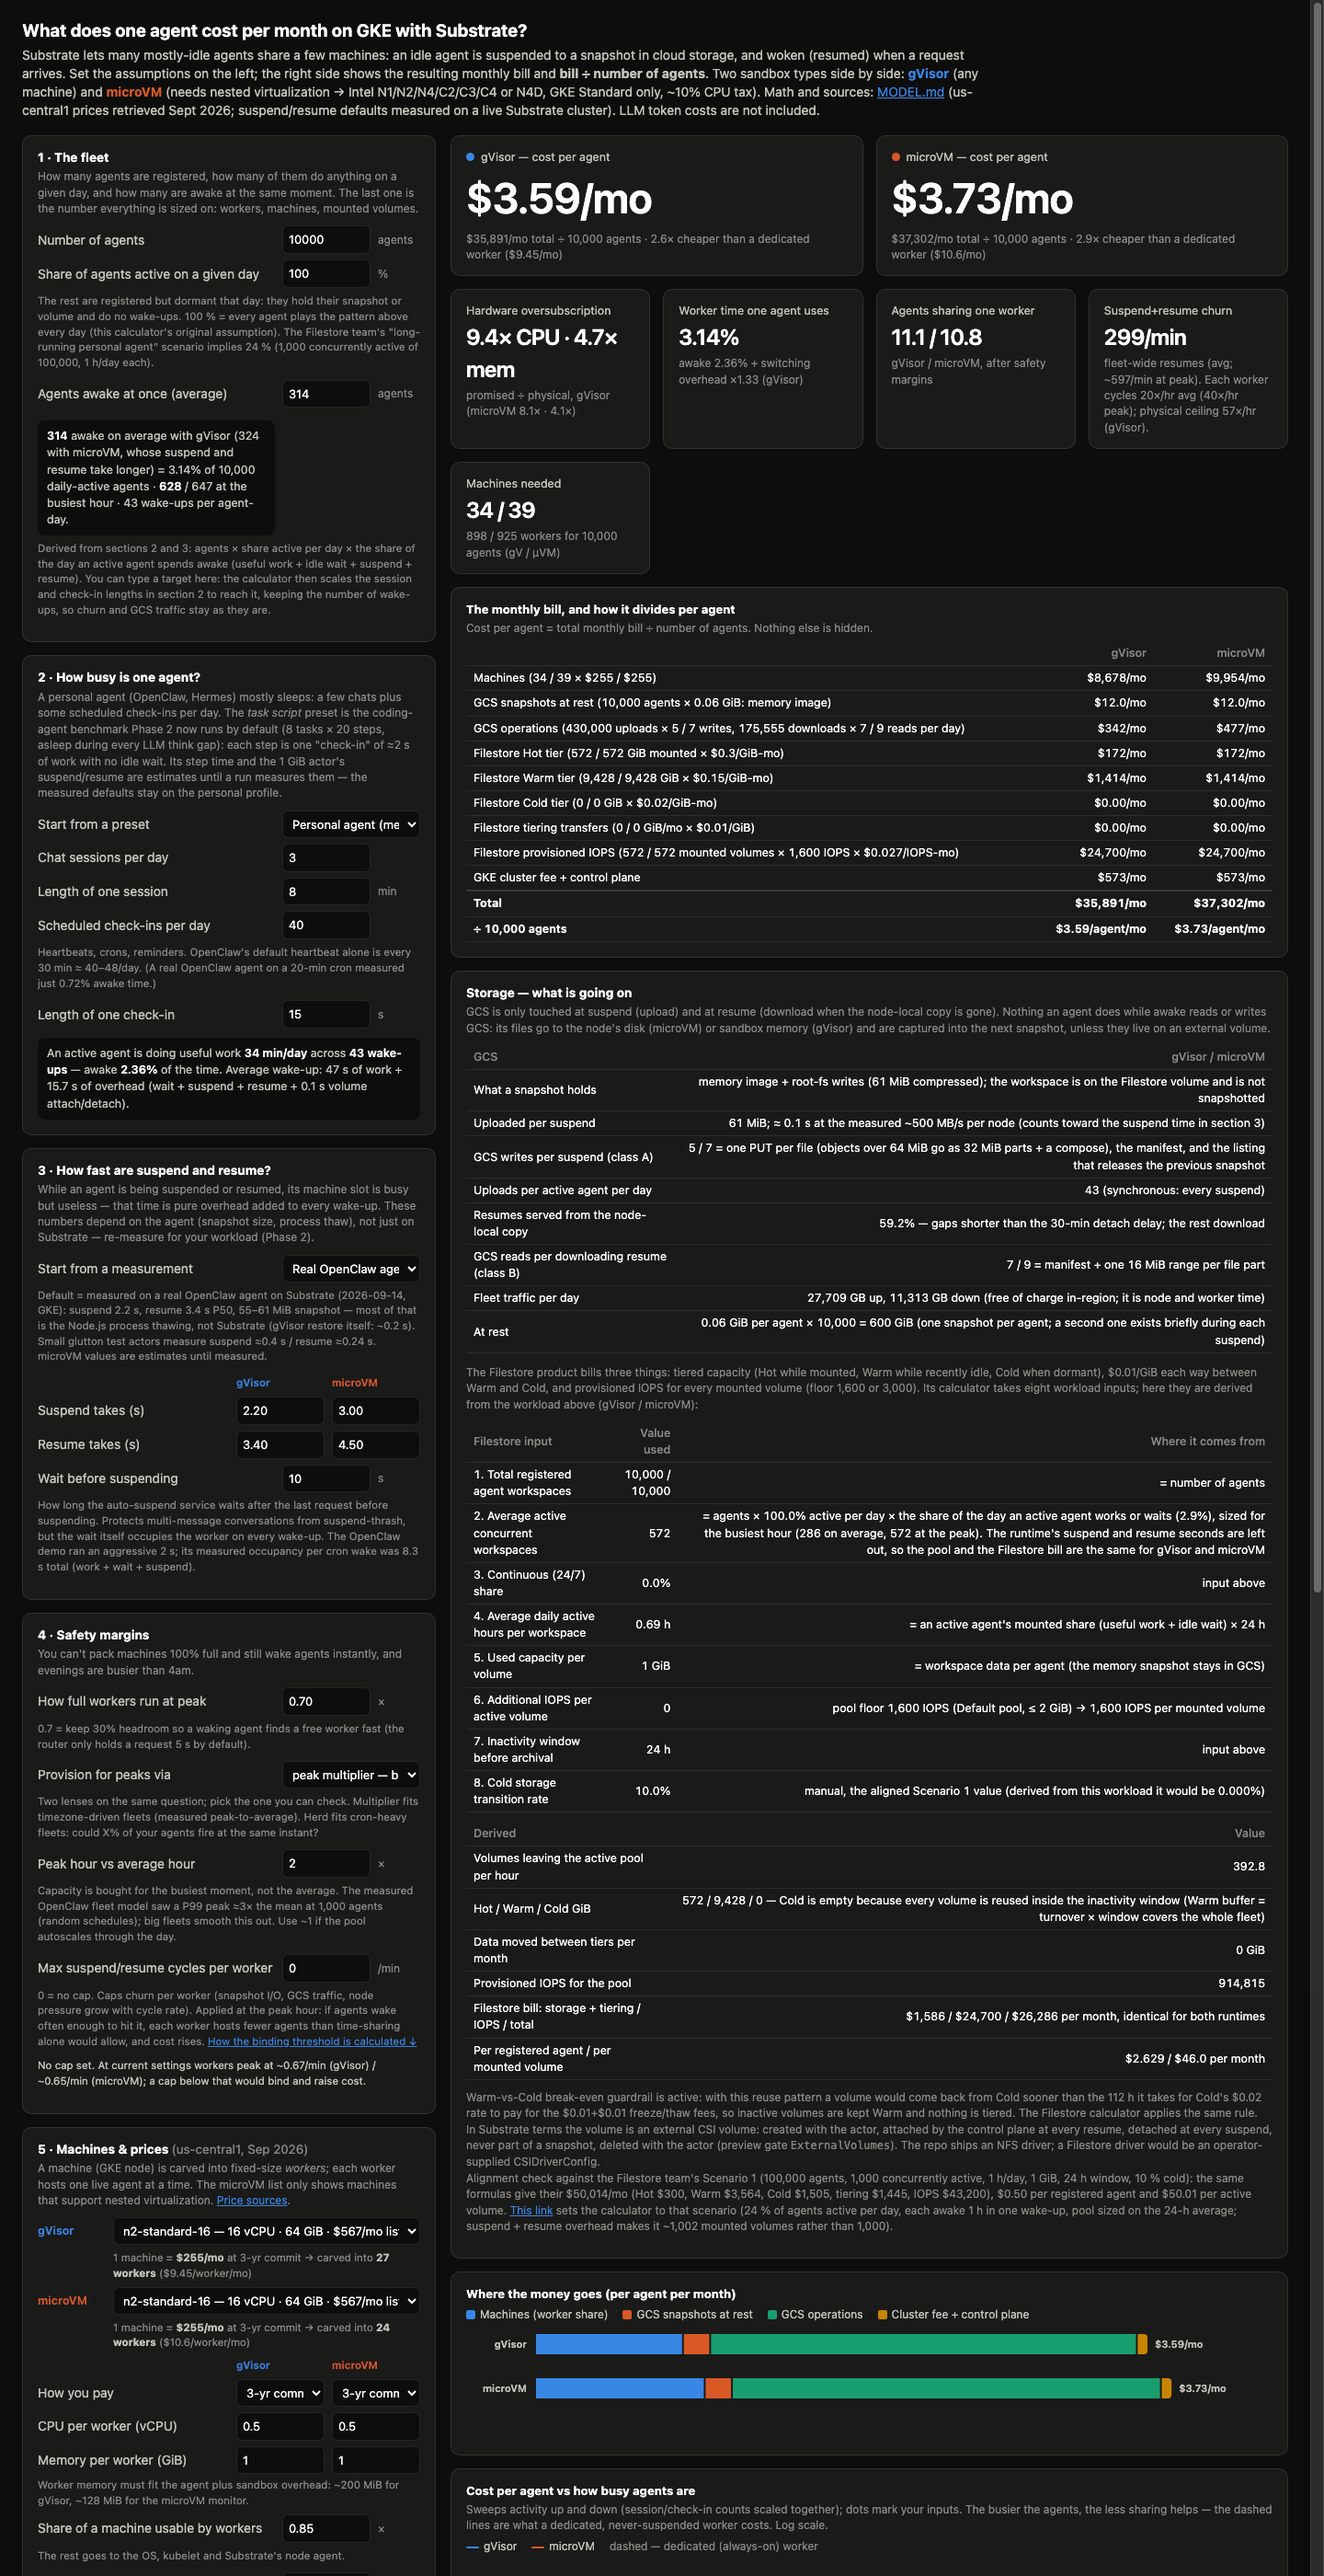
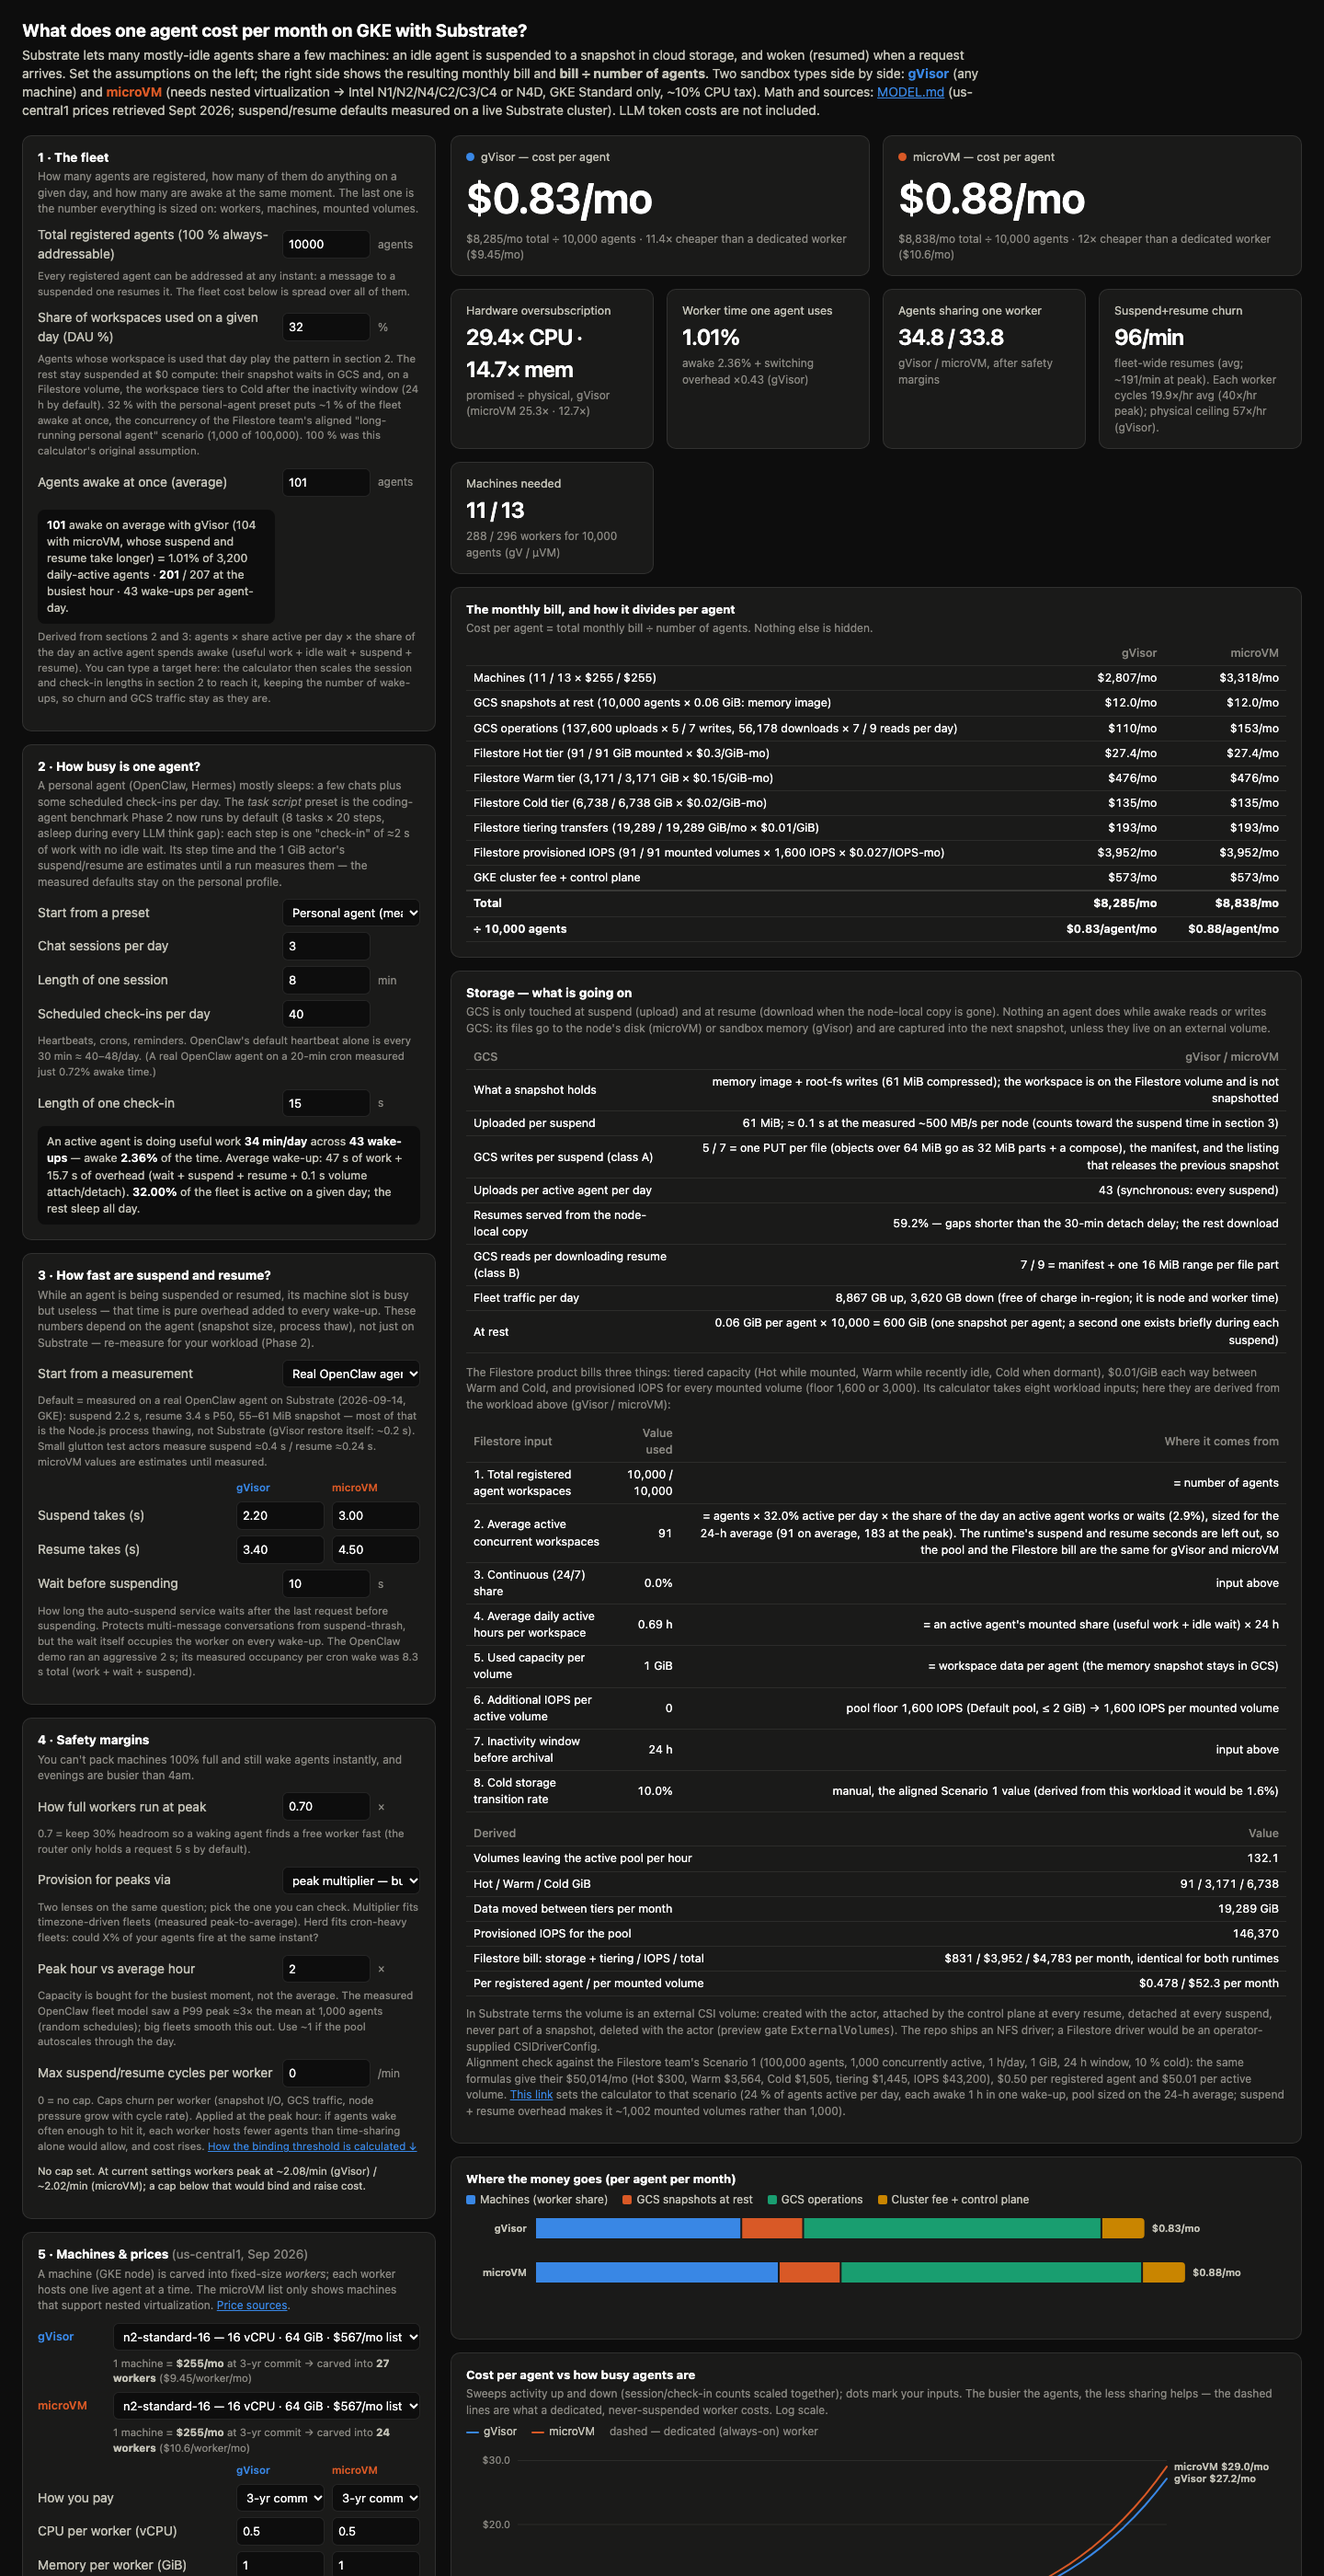
calculator: fleet card relabelled (total registered agents, 100 % always-addressable; share of workspaces used on a given day, DAU %); personal-agent preset defaults to 32 % DAU (~1 % of the fleet awake at once, the aligned scenario's concurrency); Filestore pool sized on the 24-h average by default

diff --git a/calculator.html b/calculator.html
@@ -120,10 +120,11 @@
   <div class="card">
     <h2>1 · The fleet</h2>
     <p class="why">How many agents are registered, how many of them do anything on a given day, and how many are awake at the same moment. The last one is the number everything is sized on: workers, machines, mounted volumes.</p>
-    <div class="row"><label for="fleet">Number of agents</label><input id="fleet" type="number" min="1" step="100" value="10000"><span class="unit">agents</span></div>
-    <div class="row"><label for="dailyShare">Share of agents active on a given day</label><input id="dailyShare" type="number" min="1" max="100" step="1" value="100"><span class="unit">%</span>
-      <div class="hint">The rest are registered but dormant that day: they hold their snapshot or volume and do no wake-ups. 100 % = every agent plays the pattern above every day (this calculator's original assumption). The Filestore team's "long-running personal agent" scenario implies 24 % (1,000 concurrently active of 100,000, 1 h/day each).</div></div>
-    <div class="row"><label for="concur">Agents awake at once (average)</label><input id="concur" type="number" min="1" step="10" value="314"><span class="unit">agents</span>
+    <div class="row"><label for="fleet">Total registered agents (100 % always-addressable)</label><input id="fleet" type="number" min="1" step="100" value="10000"><span class="unit">agents</span>
+      <div class="hint">Every registered agent can be addressed at any instant: a message to a suspended one resumes it. The fleet cost below is spread over all of them.</div></div>
+    <div class="row"><label for="dailyShare">Share of workspaces used on a given day (DAU %)</label><input id="dailyShare" type="number" min="1" max="100" step="1" value="32"><span class="unit">%</span>
+      <div class="hint">Agents whose workspace is used that day play the pattern in section 2. The rest stay suspended at $0 compute: their snapshot waits in GCS and, on a Filestore volume, the workspace tiers to Cold after the inactivity window (24 h by default). 32 % with the personal-agent preset puts ~1 % of the fleet awake at once, the concurrency of the Filestore team's aligned "long-running personal agent" scenario (1,000 of 100,000). 100 % was this calculator's original assumption.</div></div>
+    <div class="row"><label for="concur">Agents awake at once (average)</label><input id="concur" type="number" min="1" step="10" value="100"><span class="unit">agents</span>
       <div class="derived" id="concurDerived" style="margin-top:6px"></div>
       <div class="hint">Derived from sections 2 and 3: agents × share active per day × the share of the day an active agent spends awake (useful work + idle wait + suspend + resume). You can type a target here: the calculator then scales the session and check-in lengths in section 2 to reach it, keeping the number of wake-ups, so churn and GCS traffic stay as they are. <span id="concurNote"></span></div></div>
   </div>
@@ -242,10 +243,10 @@
     <div id="favInputs" style="display:none">
     <div class="row"><label for="favSizing">Active-volume pool sized for</label>
       <select id="favSizing" style="grid-column:2/4">
-        <option value="peak" selected>the busiest hour (same peak lens as the machines, section 4)</option>
-        <option value="avg">the 24-hour average (the Filestore calculator's convention)</option>
+        <option value="peak">the busiest hour (same peak lens as the machines, section 4)</option>
+        <option value="avg" selected>the 24-hour average (the Filestore calculator's convention)</option>
       </select>
-      <div class="hint">A volume is mounted while its agent is awake. Provisioned IOPS are billed on the number of mounted volumes the pool must hold; machines are sized for the peak above, so the pool is too by default.</div></div>
+      <div class="hint">A volume is mounted while its agent is awake. Provisioned IOPS are billed on the number of mounted volumes the pool must hold. The default follows the Filestore calculator and sizes on the 24-h average; pick the busiest hour if the pool's IOPS cannot follow the daily curve, which sizes it like the machines in section 4.</div></div>
     <div class="row"><label for="favCont">Share of active agents pinned 24/7</label><input id="favCont" type="number" min="0" max="100" step="1" value="0"><span class="unit">%</span>
       <div class="hint">Agents that never unmount. 0 % in the aligned scenario; such agents never go Warm or Cold.</div></div>
     <div class="row"><label for="favWindow">Inactivity window before archival</label><input id="favWindow" type="number" min="0" step="1" value="24"><span class="unit">hours</span>
@@ -430,7 +431,7 @@ const HRS_MO = 730;
 const $ = id => document.getElementById(id);
 const num = id => parseFloat($(id).value) || 0;
 const PRESETS = {
-  personal: {sessions:3,  sessMin:8,  wakes:40, wakeSec:15},
+  personal: {sessions:3,  sessMin:8,  wakes:40, wakeSec:15, dailyShare:32},
   chatty:   {sessions:12, sessMin:6,  wakes:48, wakeSec:15},
   coder:    {sessions:2,  sessMin:45, wakes:8,  wakeSec:30},
   // The coding-agent task script (substrate#1934) as Phase 2 runs it by

diff --git a/MODEL.md b/MODEL.md
@@ -70,10 +70,16 @@ d_eff = d * (L + T_idle + T_r + T_s) / L
 against thrashing on multi-message conversations but costs occupancy.)
 
 
-**Share of agents active on a given day (`share`, default 100 %).** Every
-quantity above is per *active* agent-day. A fleet may also hold registered
-agents that do nothing on a given day: they keep their snapshot (or volume)
-and make no wake-ups. The calculator carries this as a fleet-average factor:
+**Share of workspaces used on a given day (`share`, DAU %, default 32 %).**
+Every quantity above is per *active* agent-day. All registered agents stay
+addressable (a message to a suspended one resumes it), but only a share of
+them use their workspace on a given day; the rest keep their snapshot (or
+volume) and make no wake-ups, at no compute cost. 32 % with the personal-agent
+preset puts ~1 % of the fleet awake at once, the concurrency of the Filestore
+team's aligned "long-running personal agent" scenario (1,000 of 100,000);
+100 % was the calculator's original assumption. Below 100 % is also what lets
+a Filestore workspace ever reach the Cold tier (§5b): at 100 % every volume
+returns inside a 24 h window. The calculator carries this as a fleet-average factor:
 `occupancy_avg = share × occupancy_active`, `activations_avg = share × A`.
 Agents per worker, churn and storage operations use the averages; the
 Filestore mapping below needs both the average and the per-active values.
@@ -329,7 +335,7 @@ Alignment* document.
 | Filestore input | Derived as |
 |---|---|
 | 1. Registered workspaces | `fleet` |
-| 2. Active concurrent workspaces `A_vol` | mounted volumes = agents working or waiting: `fleet × share × (L + A·T_idle)/86400`, without the runtime's suspend and resume seconds, so the pool and the Filestore bill are identical for gVisor and microVM; sized for the busiest hour by default (`× P`, or `H + (1−H)·d` in herd mode) because provisioned IOPS cannot be scaled hourly; the 24-h average is a switch (the Filestore sheet's convention) |
+| 2. Active concurrent workspaces `A_vol` | mounted volumes = agents working or waiting: `fleet × share × (L + A·T_idle)/86400`, without the runtime's suspend and resume seconds, so the pool and the Filestore bill are identical for gVisor and microVM; sized on the 24-h average by default (the Filestore sheet's convention); the busiest hour (`× P`, or `H + (1−H)·d` in herd mode) is a switch for a pool whose provisioned IOPS cannot follow the daily curve, the same lens as the machines |
 | 3. Continuous 24/7 share `c` | input (0 % in the aligned scenario) |
 | 4. Daily active hours per workspace `h` | `(L + A·T_idle)/86400 × 24`: an active agent's useful work plus idle wait |
 | 5. Used capacity per volume `g` | `W`, the workspace GiB (uncompressed; the memory snapshot stays in GCS) |
@@ -359,21 +365,23 @@ the storage line, and the IOPS term joins the operations line. The "what is
 going on" panel under the bill prints the GCS derivation and the eight
 Filestore inputs with their provenance.
 
-**What it shows.** For the default personal-agent workload (10,000 agents,
-every one active daily with 43 wake-ups, 1 GiB workspace) the two backends
-split like this. With the workspace in the snapshot, GCS costs $0.16/agent
-(operations, mostly the composite parts of a 512 MiB tar at every suspend),
-moves ~250 TB/day, and adds ~8 s to every wake-up for the tar, compress,
-upload, download and untar of the workspace, which is why the compute line
-rises from $0.87 to $0.97/agent: $1.19 total on gVisor. With the workspace on
-Filestore, GCS drops to $0.04/agent and 28 TB/day and the wake-up overhead to
-~0.1 s, but provisioned IOPS add $2.47/agent: 572 mounted volumes at the
-busiest hour × 1,600 IOPS × $0.027, the same for both runtimes: $3.59 total.
-Tiering and Cold stay at zero because agents that wake every half hour never
-cross a 24 h window. The aligned Scenario 1 (24 % of 100,000 agents active a
-day, one 1-h wake-up each, pool sized on the average) reproduces the Filestore
-team's $50,014/mo exactly: 1,000 mounted volumes, Hot 1,000 / Warm 23,760 /
-Cold 75,240 GiB, $0.50 per registered agent.
+**What it shows.** For the default personal-agent workload (10,000 registered
+agents, 32 % using their workspace on a given day with 43 wake-ups each, 1 GiB
+workspace, ~113 awake at once) the two backends split like this. With the
+workspace in the snapshot, GCS costs $0.06/agent (operations, mostly the
+composite parts of a 512 MiB tar at every suspend) and adds ~8 s to every
+wake-up for the tar, compress, upload, download and untar of the workspace:
+$0.45/agent/month on gVisor, $0.48 on microVM, of which machines are $0.33 /
+$0.36. With the workspace on Filestore, GCS drops to $0.01/agent and the
+wake-up overhead to ~0.1 s (machines $0.28 / $0.33), but the Filestore bill
+adds $0.48/agent: 91 mounted volumes on the 24-h average × 1,600 IOPS × $0.027
+= $3,952/mo in provisioned IOPS plus $831/mo in tiered capacity and tiering
+(Hot 91 / Warm 3,171 / Cold 6,738 GiB, 19,289 GiB moved per month), the same
+for both runtimes: $0.83 / $0.88 total. That $0.48 is the Filestore team's
+~$0.50 per registered workspace baseline reproduced on this fleet. The aligned
+Scenario 1 (24 % of 100,000 agents active a day, one 1-h wake-up each)
+reproduces their $50,014/mo exactly: 1,000 mounted volumes, Hot 1,000 / Warm
+23,760 / Cold 75,240 GiB, $0.50 per registered agent.
 
 ## 6. Fixed / amortized costs
 

diff --git a/README.md b/README.md
@@ -59,10 +59,13 @@ What the calculator shows:
   OpenClaw deployment), with a small-test-actor preset for the optimistic
   end. Sources and numbers: [`MODEL.md`](MODEL.md) appendices.
 
-Ballpark with defaults (10k agents, measured switch times, 10s idle wait,
-3y CUD, both scenarios on n2-standard-16): **≈$1.0/agent/month gVisor,
-≈$1.1 microVM**, versus ~$7–15 for a dedicated worker or VPS. LLM tokens
-are out of scope (and typically dominate).
+Ballpark with defaults (10k registered agents, 32 % using their workspace on
+a given day, ~1 % awake at once, measured switch times, 10s idle wait, 1 GiB
+workspace shipped in the snapshot, 3y CUD, both scenarios on n2-standard-16):
+**≈$0.45/agent/month gVisor, ≈$0.48 microVM**; with the workspace on a
+Filestore agent volume instead, ≈$0.83 / $0.88 (the Filestore bill alone is
+the Filestore team's ~$0.50/workspace baseline). Versus ~$7–15 for a dedicated
+worker or VPS. LLM tokens are out of scope (and typically dominate).
 
 ## Phase 2: measure it
 
